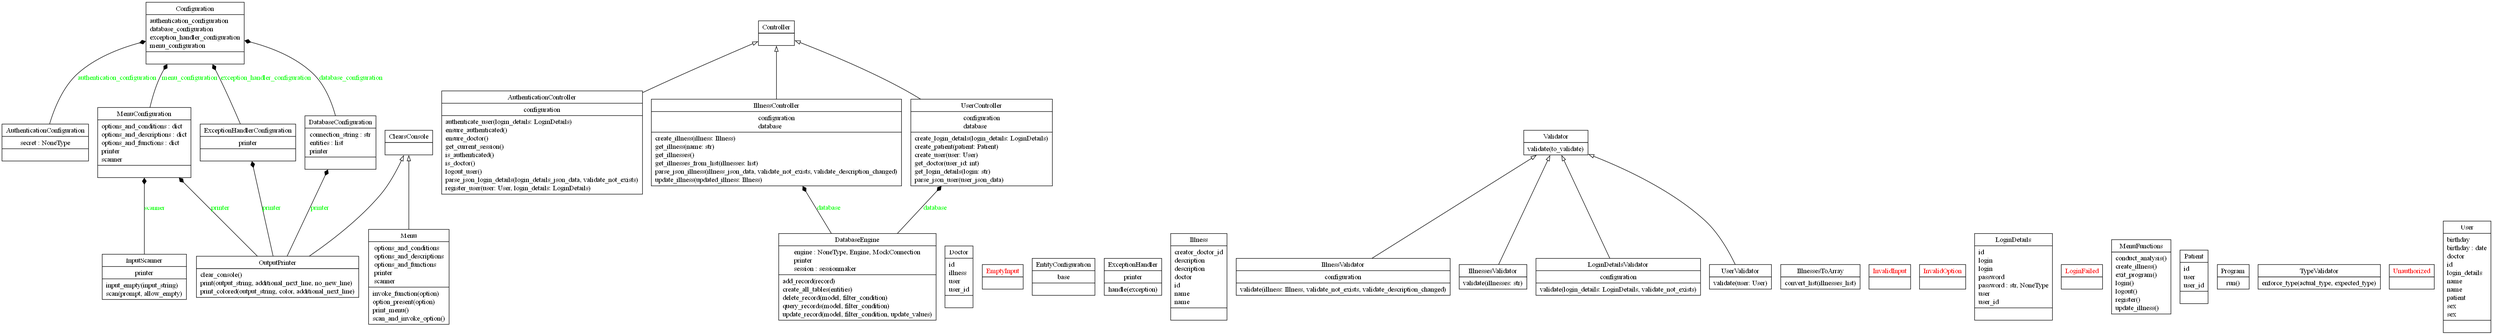
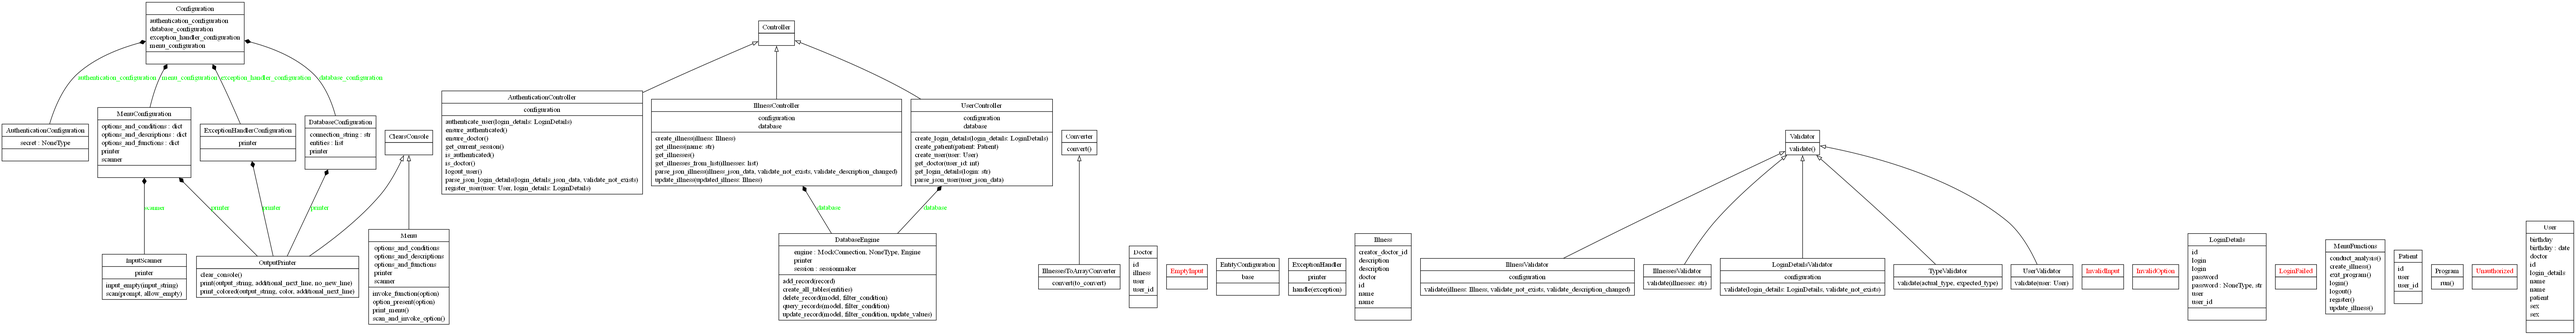
Improved project structure

diff --git a/module/controller/IllnessController.py b/module/controller/IllnessController.py
@@ -15,7 +15,7 @@ class IllnessController(Controller):
         raise InvalidInput('Illness specified does not exist')
 
     def __ensure_illness_exists(self, illness: Illness):
-        TypeValidator.enforce_type(illness, Illness)
+        type_validator = TypeValidator(); type_validator.validate(illness, Illness)
         if not self.database.query_records(Illness, Illness.name == illness.name):
             self.__handle_illness_not_exists()        
 
@@ -28,7 +28,7 @@ class IllnessController(Controller):
         return illness
 
     def get_illness(self, name: str):
-        TypeValidator.enforce_type(name, str)
+        type_validator = TypeValidator(); type_validator.validate(name, str)
         return self.database.query_records(Illness, Illness.name == name)
     
     def get_illnesses(self):
@@ -41,7 +41,7 @@ class IllnessController(Controller):
         from module.controller.AuthenticationController import AuthenticationController
         from module.controller.UserController import UserController
         from module.static.Configuration import Configuration
-        TypeValidator.enforce_type(illness, Illness)
+        type_validator = TypeValidator(); type_validator.validate(illness, Illness)
         AuthenticationController.ensure_authenticated()
         AuthenticationController.ensure_doctor()
         user_controller = UserController(Configuration); illness.creator_doctor_id = user_controller.get_doctor(AuthenticationController.get_current_session().user_id)[0].id
@@ -49,7 +49,7 @@ class IllnessController(Controller):
     
     def update_illness(self, updated_illness: Illness):
         from module.controller.AuthenticationController import AuthenticationController
-        TypeValidator.enforce_type(updated_illness, Illness)
+        type_validator = TypeValidator(); type_validator.validate(updated_illness, Illness)
         AuthenticationController.ensure_authenticated()
         AuthenticationController.ensure_doctor()
         self.__ensure_illness_exists(updated_illness)

diff --git a/main-rest.py b/main-rest.py
@@ -3,7 +3,7 @@ from module.controller.UserController import UserController
 from module.controller.AuthenticationController import AuthenticationController
 from module.controller.IllnessController import IllnessController
 from module.static.Configuration import Configuration
-from module.helper.IllnessesToArray import IllnessesToArray
+from module.helper.IllnessesToArrayConverter import IllnessesToArrayConverter
 
 app = Flask(__name__)
 
@@ -49,7 +49,8 @@ def conduct_analysis():
         json_data = request.get_json()
         illness_controller = IllnessController(Configuration)
         requested_illnesses = illness_controller.get_illnesses_from_list(json_data.get('illnesses_list'))
-        return jsonify({"analysis": IllnessesToArray.convert_list(requested_illnesses)}), 200
+        illness_to_array_converter = IllnessesToArrayConverter()
+        return jsonify({"analysis": illness_to_array_converter.convert(requested_illnesses)}), 200
     except Exception as e:
         return jsonify({"error": str(e)}), 400
 
@@ -58,7 +59,8 @@ def conduct_analysis():
 def get_illnesses():
     try:
         illness_controller = IllnessController(Configuration); illnesses = illness_controller.get_illnesses()
-        return jsonify({"illnesses": IllnessesToArray.convert_list(illnesses)}), 200
+        illness_to_array_converter = IllnessesToArrayConverter()
+        return jsonify({"illnesses": illness_to_array_converter.convert(illnesses)}), 200
     except Exception as e:
         return jsonify({"error": str(e)}), 400
 

diff --git a/module/controller/UserController.py b/module/controller/UserController.py
@@ -25,21 +25,21 @@ class UserController(Controller):
         return user
 
     def create_user(self, user: User):
-        TypeValidator.enforce_type(user, User)
+        type_validator = TypeValidator(); type_validator.validate(user, User)
         return self.database.add_record(user)
 
     def create_patient(self, patient: Patient):
-        TypeValidator.enforce_type(patient, Patient)
+        type_validator = TypeValidator(); type_validator.validate(patient, Patient)
         self.database.add_record(patient)
 
     def get_login_details(self, login: str):
-        TypeValidator.enforce_type(login, str)
+        type_validator = TypeValidator(); type_validator.validate(login, str)
         return self.database.query_records(LoginDetails, filter_condition=(LoginDetails.login == login))
     
     def create_login_details(self, login_details: LoginDetails):
-        TypeValidator.enforce_type(login_details, LoginDetails)
+        type_validator = TypeValidator(); type_validator.validate(login_details, LoginDetails)
         self.database.add_record(login_details)
 
     def get_doctor(self, user_id: int):
-        TypeValidator.enforce_type(user_id, int)
+        type_validator = TypeValidator(); type_validator.validate(user_id, int)
         return self.database.query_records(Doctor, Doctor.user_id == user_id)

diff --git a/module/helper/IllnessesToArrayConverter.py b/module/helper/IllnessesToArrayConverter.py
@@ -1,10 +1,10 @@
 from module.data.entity.Illness import Illness
+from module.abstract.Converter import Converter
 
-class IllnessesToArray():
-    @staticmethod
-    def convert_list(illnesses_list):
+class IllnessesToArrayConverter(Converter):
+    def convert(self, to_convert):
         illnesses_array = []
-        for illness in illnesses_list:
+        for illness in to_convert:
             illnesses_array.append({
                 "name": illness.name,
                 "description": illness.description

diff --git a/module/static/dedicated_configuration/DatabaseConfiguration.py b/module/static/dedicated_configuration/DatabaseConfiguration.py
@@ -8,6 +8,6 @@ from module.OutputPrinter import OutputPrinter
 
 # Class which specifies how the DatabaseEngine class instance should behave
 class DatabaseConfiguration:
-    connection_string = 'mssql+pyodbc://localhost\\SQLEXPRESS01/master?driver=ODBC Driver 17 for SQL Server&trusted_connection=yes'
+    connection_string = os.environ.get("DB_CONNECTION")
     entities = [User, Patient, Doctor, LoginDetails, Illness]
     printer = OutputPrinter

diff --git a/module/helper/TypeValidator.py b/module/helper/TypeValidator.py
@@ -1,7 +1,8 @@
+from module.abstract.Validator import Validator
+
 # Class which implements the validator pattern and is used
 # for validating entity type
-class TypeValidator:
-    @staticmethod
-    def enforce_type(actual_type, expected_type):
+class TypeValidator(Validator):
+    def validate(self, actual_type, expected_type):
         if not isinstance(actual_type, expected_type):
             raise TypeError('Invalid type passed')

diff --git a/module/abstract/Validator.py b/module/abstract/Validator.py
@@ -2,4 +2,4 @@ from abc import ABC
 
 # Abstract class which is implements the data validator pattern     
 class Validator(ABC):
-    def validate(self, to_validate): ...
+    def validate(self, *args, **kargs): ...

diff --git a/module/abstract/Converter.py b/module/abstract/Converter.py
@@ -1,0 +1,5 @@
+from abc import ABC
+
+# Abstract class which is implements the data converter pattern     
+class Converter(ABC):
+    def convert(self, *args, **kargs): ...
